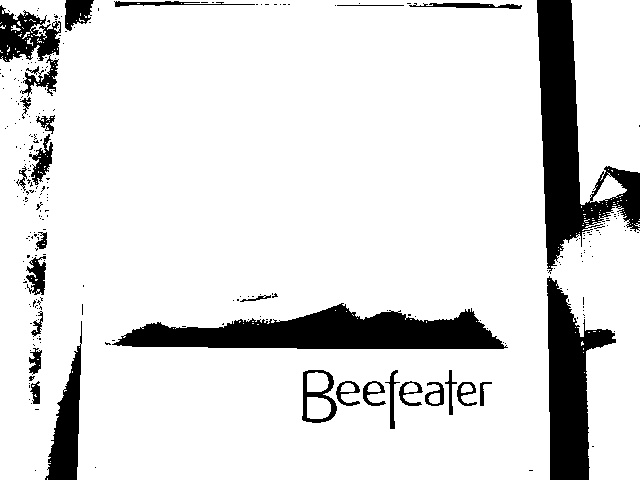
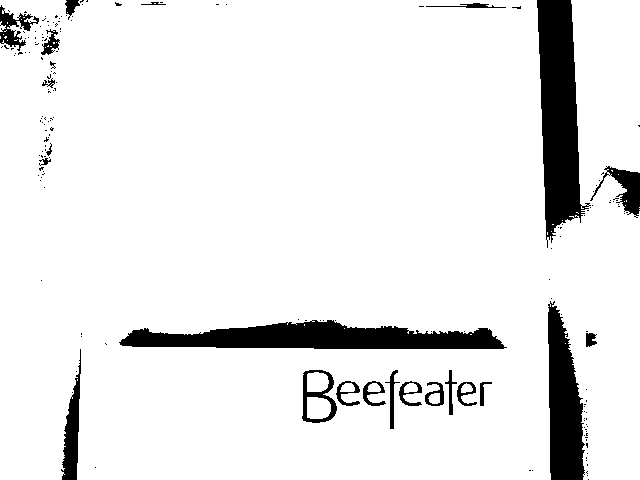
using nn in whole stack

diff --git a/main.py b/main.py
@@ -122,16 +122,29 @@ def run(knn_num_neigh=-1):
 				if adabtive_bin_regressor_1 == None:
 					adabtive_bin_regressor_1 = cl.Regression()
 					print "Training first adaptive threshold regressor"
-					adabtive_bin_regressor_1.train(loc_samples, loc_responses_1)
+					if USE_KNN_IN_REGRESSION:
+						adabtive_bin_regressor_1.train(loc_samples, loc_responses_1)
+					else:
+						adabtive_bin_regressor_1.initAndTrainNeuralNetwork(loc_samples, loc_responses_1, nhidden)
 
 				if adabtive_bin_regressor_2 == None:
 					adabtive_bin_regressor_2 = cl.Regression()
 					print "Training second adaptive threshold regressor"
-					adabtive_bin_regressor_2.train(loc_samples, loc_responses_2)
+					if USE_KNN_IN_REGRESSION:
+						adabtive_bin_regressor_2.train(loc_samples, loc_responses_2)
+					else:
+						adabtive_bin_regressor_2.initAndTrainNeuralNetwork(loc_samples, loc_responses_2, nhidden)
 
-				first_answer = adabtive_bin_regressor_1.test(im)
-				second_answer = adabtive_bin_regressor_2.test(im)
+				if USE_KNN_IN_REGRESSION:
+					first_answer = adabtive_bin_regressor_1.test(im)
+					second_answer = adabtive_bin_regressor_2.test(im)
+				else:
+					first_answer = adabtive_bin_regressor_1.predictNeural(im)
+					second_answer = adabtive_bin_regressor_2.predictNeural(im)
 
+				first_answer = int(first_answer)
+				if first_answer%2 == 0:
+					first_answer+=1
 				print "block size:", first_answer
 				print "C:", second_answer
 

diff --git a/quality_assessment.py b/quality_assessment.py
@@ -60,7 +60,7 @@ def baseCheckRecognitionQuality(result_file_suffix, result_file_prefix='./learn_
 					line = line.lower()
 					line = line.replace("\n", " ")
 					line = filter_string(line)
-					init_recog += line
+					init_recog += line + " "
 		except IOError:
 			print "No file:", filename, "\nPassing example"
 			continue
